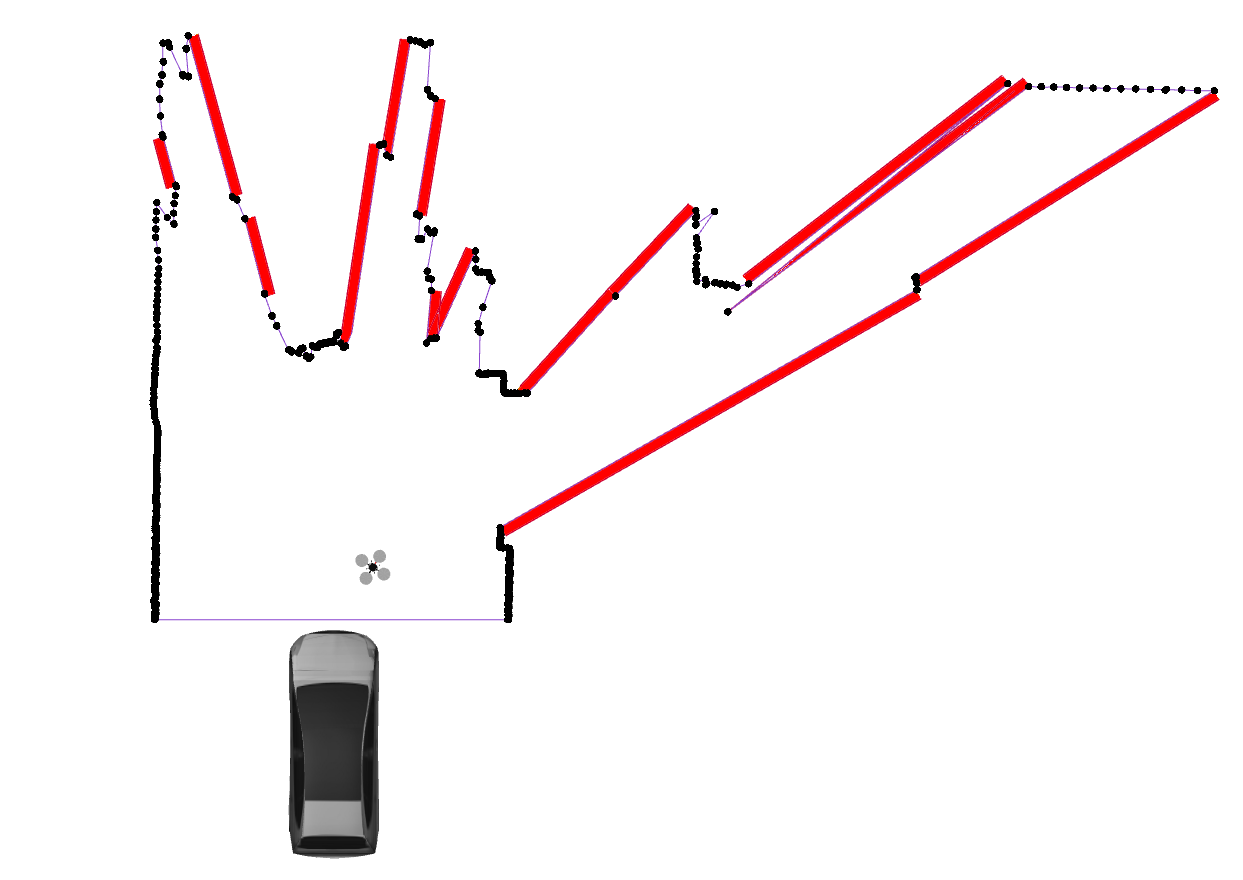
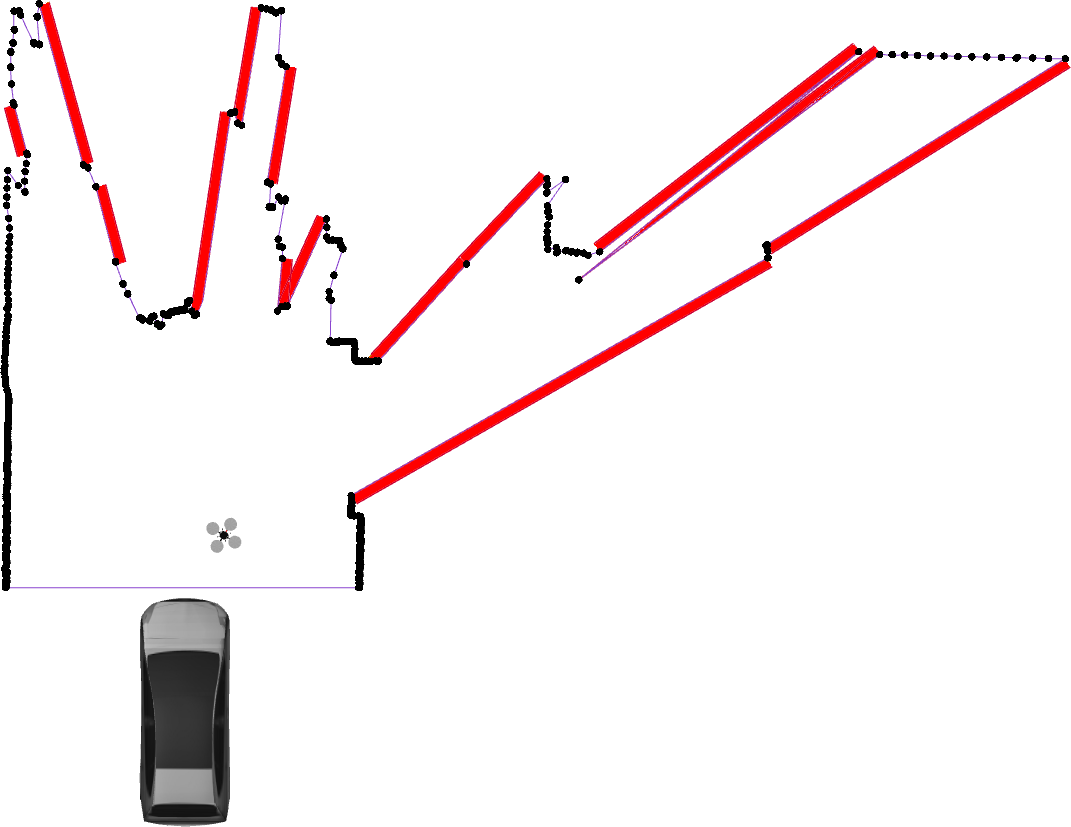
Paper is coming along

diff --git a/secs/04-planning.tex b/secs/04-planning.tex
@@ -18,13 +18,47 @@ bounding polygon is found, Sec.~\ref{sec:blindregions} describes how the blind
 regions are computed from the laser scan, and Sec.~\ref{sec:planner} describes
 and analyzes the algorithm we developed for computing the exploratory path.
 
-% \begin{figure}
-%     \centering
-%     \includegraphics[width=0.49\linewidth]{01laser}
-%     \includegraphics[width=0.49\linewidth]{02polygon} \\
-%     \includegraphics[width=0.49\linewidth]{03blindspots}
-%     \includegraphics[width=0.49\linewidth]{04planner}
-% \end{figure}
+\begin{figure}[ht]
+
+    \centering
+
+    \begin{subfigure}[t]{0.49\textwidth}
+        \centering
+        \includegraphics[width=1\linewidth]{01laser}
+        \caption{}
+        \label{fig:01laser}
+    \end{subfigure}
+    ~
+    \begin{subfigure}[t]{0.49\textwidth}
+        \centering
+        \includegraphics[width=1\linewidth]{02polygon}
+        \caption{}
+        \label{fig:02polygon}
+    \end{subfigure}
+    ~
+    \begin{subfigure}[t]{0.49\textwidth}
+        \centering
+        \includegraphics[width=1\linewidth]{03blindregions}
+        \caption{}
+        \label{fig:03blindregions}
+    \end{subfigure}
+    ~
+    \begin{subfigure}[t]{0.49\textwidth}
+        \centering
+        \includegraphics[width=1\linewidth]{04planner-small}
+        \caption{}
+        \label{fig:04planner-small}
+    \end{subfigure}
+
+    \caption{Plots showing the four stages of the planner. Fig. (a) shows the
+    points from the laser scan. Fig. (b) shows bounding polygon created from
+the laser scan. Fig. (c) shows the regions occluded to the vehicle in red and
+Fig. (d) shows the initial plan for the quadrotor to view some of these blind
+regions.}
+
+    \label{fig:planner-stages}
+
+\end{figure}
 
 \subsection{Finding the Bounding Polygon}
 
@@ -51,23 +85,8 @@ polygon is defined as the minimum area simple polygon that contains all the
 points in the laser scan. Since the laser scan data is ordered by $\theta_i$
 from $\theta_{\min}$ to $\theta_{\max}$, the bounding polygon can be
 constructed in one pass with the vertex sequence $\{\mathbf{c}\} \cup L \cup
-\{\mathbf{c}\}$. Fig.~\ref{fig:polygon} shows an example of laser scan
+\{\mathbf{c}\}$. Fig.~\ref{fig:02polygon} shows an example of laser scan
 data and the corresponding bounding polygon.
-
-\begin{figure}[ht]
-
-    \centering
-    % \includegraphics[width=0.49\linewidth]{01laser}
-    \includegraphics[width=1\linewidth]{02polygon}
-    % \includegraphics[width=0.49\linewidth]{03blindspots}
-    % \includegraphics[width=0.49\linewidth]{04planner}
-
-    \caption{Constructing the bounding polygon from the laser scan. The black
-        circles are the individual points in the scan and the purple lines
-        are the line segments in the bounding polygon.}
-
-    \label{fig:polygon}
-\end{figure}
 
 \subsection{Determining the Blind Regions}
 
@@ -81,24 +100,10 @@ $\{L_i, L_i + k \cdot \hat{L}_{i, i + 1}, L_{i + 1} + k \cdot \hat{L}_{i, i +
 vector between points $L_i$ and $L_{i + 1}$ that points away from the bounding
 polygon and $k$ is a tuning parameter that contributes to the area of the blind
 region. In practice we only care for blind regions where $||L_i - L_{i + 1}||_2
-> \delta$ where $\delta$ is a tuning parameter. We will use $\B$ to denote the
-set of all such regions.  Fig.~\ref{fig:blindregions} shows an example of blind
-regions in found in a found from a laser scan.
-
-\begin{figure}[ht]
-
-    \centering
-    % \includegraphics[width=0.49\linewidth]{01laser}
-    % \includegraphics[width=1\linewidth]{02polygon}
-    \includegraphics[width=1\linewidth]{03blindregions}
-    % \includegraphics[width=0.49\linewidth]{04planner}
-
-    \caption{Finding the blind regions from the laser scan. The black circles
-        are individual points in the scan and the red filled rectangles are the
-        blind regions}
-
-    \label{fig:blindregions}
-\end{figure}
+> \delta$ where $\delta$ is a tuning parameter because the laser scan consists
+of a finite number of points with a known angular distance. We will use $\B$ to
+denote the set of all such regions.  Fig.~\ref{fig:03blindregions} shows an
+example of blind regions in found in a found from a laser scan.
 
 % maybe can change the name of this section
 \subsection{Computing the Exploratory Path}
@@ -132,10 +137,11 @@ path if its current path is no longer collision free or if the new path has a
 larger objective value. \ja{ADD caption to algorithm and figure!}
 
 \begin{algorithm}[h!]
-    \caption{Algorithm caption}
+    \caption{Path planning for remote sensing UAV (looking around the corner)}
     \algorithmicrequire{\begin{itemize}
             \item $x_0$: The initial position of the robot
             \item $\B$: The blind region
+            \item $\Poly$: The bounding polygon
         \end{itemize}}
     \algorithmicensure{\begin{itemize}
             \item $\Pi \subset \R^3 \times [0, 2\pi]$: A sequence of 3D positions
@@ -160,7 +166,7 @@ larger objective value. \ja{ADD caption to algorithm and figure!}
                 \ENDWHILE
                 \RETURN $\Pi$
             \ENDIF
-            \FORALL{$x' \in \Function{CollisionFreeNeighbours}(x)$}
+            \FORALL{$x' \in \Function{CollisionFreeNeighbours}(x, \Poly)$}
             \STATE $\theta' \leftarrow \theta^*(x', \rB)$
             \STATE $Q \leftarrow Q \cup \{(x', \theta', \rB \, \backslash \,
                     \psi^*(x', \rB))\}$
@@ -183,17 +189,5 @@ $x$ are added to the search along with their maximizing orientation and
 remaining unobserved blind regions.  Once the search has expired, the path,
 $\Pi$ comprised of 3D positions and orientations, that was able to view the
 largest cumulative blind region area starting from $x_0$ is returned.
-Fig.~\ref{fig:planner} shows an example of a path being computed to view the
-blind regions.
-
-\begin{figure}[h!]
-
-    \centering
-
-    \includegraphics[width=1\linewidth]{04planner}
-
-    \caption{}
-
-    \label{fig:planner}
-
-\end{figure}
+Fig.~\ref{fig:04planner-small} shows an example of a path being computed to
+view the blind regions.

diff --git a/secs/01-intro.tex b/secs/01-intro.tex
@@ -28,8 +28,14 @@ fill in the blind spots in its vision.
 A crucial step in enabling a small UAV and an autonomous car to work
 together is to ensure that there exists an accurate pose transform between the car
 and the quadcopter. The accuracy of GPS is not sufficient when the UAV must navigate
-obstacle-filled environments (such as a city center) or land on the car. In this 
-paper, we present a method for relative localization using ultra-wideband radios to measure the relative position of the quadcopter relative to the car with an accuracy of <14cm. This information is fused with the internal state estimation to enable the UAV to safely navigate to blind spots and then land back on the car. Furthermore, we have developed a path planning algorithm for remote sensing and have carried out experiments using a quadrotor and a car.
+obstacle-filled environments (such as a city center) or land on the car. In
+this paper, we present a method for relative localization using ultra-wideband
+radios to measure the relative position of the quadcopter relative to the car
+with an accuracy of less than 14cm. This information is fused with the internal
+state estimation to enable the UAV to safely navigate to blind spots and then
+land back on the car. Furthermore, we have developed a path planning algorithm
+for remote sensing and have carried out experiments using a quadrotor and a
+car.
 
 %implemented a Deep Neural Network to detect obstacles, such as pedestrians, from the UAV.
 % In addition, we have implemented a real-time obstacle detection system, useful for detecting pedestrians from the UAV, using a deep neural network system called YOLO \cite{darknet}. The YOLO neural network divides the image into regions, and predicts the probability and object type for each region that is proposed to be an obstacle. Its unique detection method allows it to run at 15 FPS on our GPU-enabled system, much faster than other approaches.
@@ -108,7 +114,6 @@ on the car to plan safe paths for the quadrotor.
 
 \subsection{Contribution}
 
-% <<<<<<< HEAD
 This paper presents a method for extending the sensing capabilities of
 self-driving vehicles by using a small quadrotor to autonomously locate and
 observe regions occluded to the vehicle and detect potentially unsafe obstacles
@@ -123,23 +128,11 @@ such as pedestrians or other cars. Our contributions include
         for the quadrotor relative to the ground vehicle that view occluded
         regions
 
+    \item A system that uses the localization and planning algorithms and
+        enables a UAV to position itself and transmit images outside the field
+        of view of the sensors on the car
+
     \item Experimental validation using a sensor-equipped Toyota Prius and a
         Parrot Bebop 2 quadrotor
 
 \end{itemize}
-% =======
-% This paper presents a method for augmenting the sensing capabilities of self-driving cars.
-% In particular, we employ a small aerial vehicle (quadrotor) to autonomously inspect areas that are occluded for the car and detect unsafe situations early enough, such as
-% pedestrians and bikers in blind sports or other vehicles in blind intersections.
-%
-% % This paper presents a method augment what a self-driving car can see.
-% % - Occlusions limit the field of view of the car
-% % - A small UAV can fly to explore those blind spots and prevent accidents
-% % - Informative / exploration planning algorithm for the UAV
-% % - Open source communication framework for multi-robot systems
-% % - Experiments with real data captured from our car 
-%
-% Our holistic method contributes an algorithm for informative exploration of occluded spots in the local map built by the ground vehicle. To achieve this, we also provide a ROS-based open source communication framework for multi-robot systems and a UWB-based localization system.
-%
-% We validate our approach with experiments with our self-driving vehicle and a small UAV. Our experiments show that the quadcopter can accurately navigate to blind spots, find occluded pedestrians and land back on the car.
-% >>>>>>> 7e7c728f4f915014eb8c483f0f8e35c626a055ff

diff --git a/secs/02-overview.tex b/secs/02-overview.tex
@@ -50,7 +50,10 @@ that maximizes the occluded area viewed by the quadrotor.
 % towards these regions. The search terminates when a timeout has expired and
 % returns the path that currently maximizes the occluded area viewed by the
 % quadrotor.
-To detect obstacles within the occluded areas, we employ a real-time object detecting convolutional neural network~\cite{yolo}, which is able to classify and locate objects, such as pedestrians, cars, bicycles, in monocular images. These obstacles are then reported back to the ground vehicle.
+To detect obstacles within the occluded areas, we employ a real-time object
+detecting convolutional neural network~\cite{redmond2016you}, which is able to
+classify and locate objects, such as pedestrians, cars, bicycles, in monocular
+images.  These obstacles are then reported back to the ground vehicle.
 
 
 
@@ -68,6 +71,31 @@ path, we use a convolutional neural network to classify and detect objects in
 the quadrotor's field of view, such as pedestrians and cars, and relay this
 information back to the ground vehicle. The path is updated if it is no longer
 collision free due to changes in the laser scan or if a new path is computed
-that can observe a larger occluded area.
+that can observe a larger occluded area. On high level overview of the entire
+process is shown in Algo.~\ref{algo:overview}.
 
-\ja{Can you add here a high-level algorithm? Car maps -> compute blind spots -> plan path -> navigate to bind spots -> detect occluded obstacles -> loop}
+\begin{algorithm}[h!]
+    \caption{Overview of the Foresight algorithm}
+    \label{algo:overview}
+    \begin{algorithmic}[1]
+        \setcounter{ALC@line}{0}
+        \STATE $\Pi \leftarrow \emptyset$
+        \WHILE {$\Function{IsRunning}()$}
+        \STATE $x \leftarrow \Function{GetQuadrotorConfiguration}()$
+        \STATE $L \leftarrow \Function{GetLaserScan}()$
+        \STATE $\Poly \leftarrow \Function{ConstructBoundingPolygon}(L)$
+        \STATE $\B \leftarrow \Function{ComputeBlindRegions}(L)$
+        \STATE $\widetilde{\Pi} \leftarrow
+        \Function{ComputeCoveragePath}(x, \B, \Poly)$
+        \IF {$|\Pi| = 0 \vee \neg \Function{PathCollisionFree}(\Pi, \Poly)
+            \vee$ \\ $\pushcode \Function{ObservingArea}(\widetilde{\Pi}, \B) >
+            \Function{ObservingArea}(\Pi, \B)$}
+            \STATE $\Pi \leftarrow \widetilde{\Pi}$
+        \ENDIF
+        \STATE $\Function{SendPathToQuadrotor}(\Pi)$
+        \ENDWHILE
+    \end{algorithmic}
+\end{algorithm}
+
+%
+% \ja{Can you add here a high-level algorithm? Car maps -> compute blind spots -> plan path -> navigate to bind spots -> detect occluded obstacles -> loop}

diff --git a/secs/05-results.tex b/secs/05-results.tex
@@ -38,8 +38,7 @@ front of the car and six Decawave TREK1000 ultra-wideband radios mounted on the
 roof and front bumper of the car. A platform for the quadrotor to take off and
 land is attached to the front bumper of the Prius. We used a Parrot Bebop 2
 quadrotor with a Decawave TREK1000 mounted on the battery.  Fig.~\ref{fig:car}
-and Fig.~\ref{fig:bebop-actual} show the Toyota Prius and modified Bebop 2
-quadrotor used in the experiments.
+shows the Toyota Prius and modified Bebop 2 quadrotor used in the experiments.
 
 \begin{figure}[h!]
 
@@ -61,8 +60,8 @@ adversarial environment. The second, shown in Fig.~\ref{fig:exp-buggy-outside},
 was a more realistic setting with the golf cart approaching an open garage door
 with blind spots on either side. In both these cases the quadrotor was
 successfully able to observe the blind spots and relay this information back to
-the computer on board the golf cart. For the interest of brevity will discuss
-in detail the experiments using the Toyota Prius.
+the computer on board the golf cart. For the interest of brevity, we will only
+discuss in detail the experiments using the Toyota Prius.
 
 Our experimental scenario involves a car preparing to leave a garage with a
 significant blind spot. The car is unable to sense around the corner to
@@ -77,7 +76,7 @@ then follows the car into the garage and autonomously lands on the platform.
 
     \centering
 
-    \begin{subfigure}[t]{\textwidth}
+    \begin{subfigure}[t]{0.7\textwidth}
 
         \centering
         \includegraphics[width=1.0\linewidth]{exp-car-garage}
@@ -89,7 +88,7 @@ then follows the car into the garage and autonomously lands on the platform.
 
     \vspace*{1mm}
 
-    \begin{subfigure}[t]{\textwidth}
+    \begin{subfigure}[t]{0.7\textwidth}
 
         \centering
         \includegraphics[width=1.0\linewidth]{exp-buggy-inside}
@@ -101,7 +100,8 @@ then follows the car into the garage and autonomously lands on the platform.
 
     \vspace*{1mm}
 
-    \begin{subfigure}[t]{\textwidth}
+    \begin{subfigure}[t]{0.7\textwidth}
+
         \centering
         \includegraphics[width=1.0\linewidth]{exp-buggy-outside}
         \caption{}

diff --git a/foresight.tex b/foresight.tex
@@ -48,6 +48,7 @@
 \newcommand{\Var}[1]{\ensuremath{{{\textsl{#1}}}}}
 \newcommand{\rB}[0]{\ensuremath{{{\mathcal{B'}}}}}
 \newcommand{\B}[0]{\ensuremath{{{\mathcal{B}}}}}
+\newcommand{\Poly}[0]{\ensuremath{{{\mathcal{P}}}}}
 \newcommand{\False}{\Constant{false}}
 \newcommand{\True}{\Constant{true}}
 \newcommand{\Null}{\Constant{null}}
@@ -62,6 +63,8 @@
 \newcommand{\argmin}[1]{\underset{#1}{\operatorname{arg}\,\operatorname{min}}\;}
 \newcommand{\argmax}[1]{\underset{#1}{\operatorname{arg}\,\operatorname{max}}\;}
 \newcommand{\mychange}[1]{\textcolor{red}{#1}}
+
+\newcommand{\pushcode}[1][1]{\hskip\dimexpr#1\algorithmicindent\relax}
 
 \newcommand{\ja}[1]{{\noindent{\raggedright\color{blue}
       {[JA]}{ #1}} \par}}
